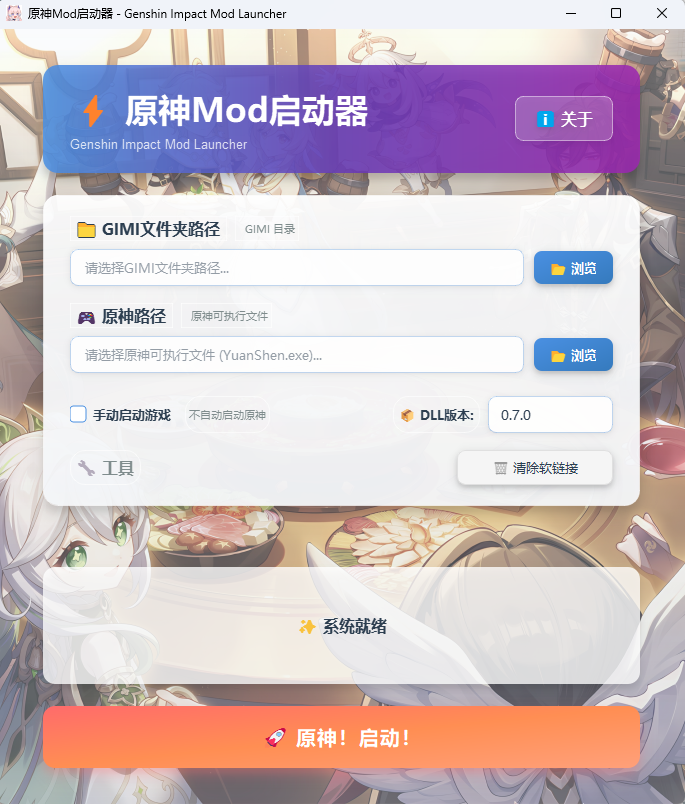
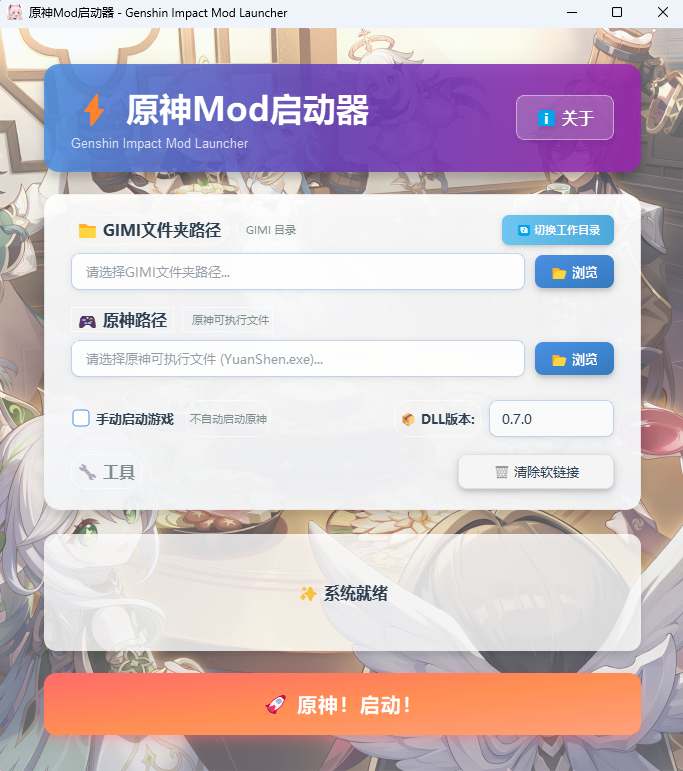
更新V1.5使用说明

diff --git a/README.md b/README.md
@@ -2,13 +2,13 @@
 
 ⚡ **Genshin Impact Mod Launcher** - 专为原神玩家设计的优雅Mod启动工具
 
-![Version](https://img.shields.io/badge/version-1.2.0-blue.svg)
+![Version](https://img.shields.io/badge/version-1.5.0-blue.svg)
 ![Platform](https://img.shields.io/badge/platform-Windows-lightgrey.svg)
 ![License](https://img.shields.io/badge/license-Proprietary-red.svg)
 
 ## ⚠ 重要说明
 
-**适用对象**：仅面向 XXMI 的 GIMI 加载器用户使用
+**适用对象**：支持 XXMI 的 GIMI 加载器和 3DMigoto 的 work 目录两种模式
 
 **兼容性提示**：本启动器目前仅在部分设备上可以有效规避游戏报错，尚未完全确定兼容性问题的根本原因。如果您的设备无法正常使用，请耐心等待后续版本更新。
 
@@ -30,39 +30,58 @@
 
 > ⚠ **重要**: 必须以管理员身份运行，否则无法创建软链接！
 
-## 📋 使用指南
+## ✨ 主要特性
+
+### � 双模式支持
+- **GIMI模式**：适用于 XXMI 的 GIMI 目录
+- **work模式**：适用于 3DMigoto 的 work 目录
+- 一键切换，配置互不干扰，自动保存
+
+## �📋 使用指南
 
 ### 首次使用
 
 1. **以管理员身份启动程序**
    - 右键点击程序图标 → 选择"以管理员身份运行"
 
-2. **配置 GIMI 文件夹路径**
-   - 点击"浏览"按钮选择你的 GIMI 文件夹
-   - 必须保证该文件夹包含以下文件夹或文件，且必须有效：
-     
-      文件夹：Core、Mods、ShaderCache、ShaderFixes
-     
-      文件：d3dcompiler_47.dll、d3dx_user.ini
+2. **选择工作模式**
+   - 程序默认为 **GIMI 模式**
+   - 如需使用 3DMigoto 模式，点击路径配置项右上方的 **🔄 切换工作目录**
+   - 工具提示：可在 XXMI 的 GIMI 目录和 3DMigoto 的 work 目录之间切换
 
-3. **配置原神游戏路径**
+3. **配置文件夹路径**
+
+   #### GIMI 模式配置
+   - 点击"浏览"按钮选择你的 GIMI 文件夹
+   - 必须包含以下内容：
+     - **必需文件夹**：Core、Mods、ShaderCache、ShaderFixes
+     - **可选文件**：d3dcompiler_47.dll、d3dx_user.ini
+
+   #### work 模式配置
+   - 点击"浏览"按钮选择你的 work 文件夹
+   - 必须包含以下内容：
+     - **必需文件夹**：Mods、ShaderCache、ShaderFixes
+     - **必需文件**：3DMigoto Loader.exe、d3dx.ini
+     - **可选文件**：d3dcompiler_46.dll、d3dx_user.ini
+
+4. **配置原神游戏路径**
    - 点击"浏览"按钮选择原神游戏的可执行文件
    - 如：`YuanShen.exe` 或 `GenshinImpact.exe`
 
-4. **选择 DLL 版本（可选）**
+5. **选择 DLL 版本（可选）**
    - 在"DLL版本"下拉框中选择文件版本
-   - 默认使用最新版本（0.7.0）
+   - 默认使用稳定版本（0.7.0）
    - **使用建议**：
-     - 一般情况下使用默认的最新版本即可
+     - 一般情况下使用默认的稳定版本即可
      - 当游戏出现"与服务器断开连接"错误时，可以尝试切换 DLL 版本
      - 优先选择较高的版本号
      - 低版本文件可能会导致 Mod 出现某些兼容性问题
 
-5. **选择启动模式（可选）**
+6. **选择启动模式（可选）**
    - 默认：自动启动所有工具和游戏
    - 勾选"手动启动游戏"：仅启动Mod加载工具，需手动启动游戏
 
-6. **启动程序**
+7. **启动程序**
    - 点击"🚀 原神！启动！"按钮
    - 程序将自动完成所有处理并启动
    - 启动成功后，程序将在 3 秒后自动退出
@@ -74,6 +93,12 @@
 2. 点击"🚀 原神！启动！"按钮
 3. 等待自动处理完成
 
+### 模式切换
+
+- 点击路径配置项右上方的 **🔄 切换工作目录** 即可在 GIMI 和 work 模式间切换
+- 两种模式的配置独立保存，切换后自动恢复之前的配置
+- 清除软链接功能会根据当前模式自动适配
+
 ## ⚠ 注意事项
 
 ### 重要提示
@@ -81,16 +106,22 @@
 1. **管理员权限**
    - 必须以管理员身份运行程序，否则无法创建软链接
 
-2. **路径配置**
-   - GIMI 文件夹必须包含必要的子文件夹（Core、Mods 等）
+2. **模式选择**
+   - **GIMI 模式**：用于 XXMI 的 GIMI 目录
+   - **work 模式**：用于 3DMigoto 的 work 目录
+   - 两种模式配置独立，互不影响
+
+3. **路径配置**
+   - **GIMI 模式必需**：Core、Mods、ShaderCache、ShaderFixes 文件夹
+   - **work 模式必需**：Mods、ShaderCache、ShaderFixes 文件夹，以及 3DMigoto Loader.exe、d3dx.ini 文件
    - 原神游戏路径必须指向正确的可执行文件
 
-3. **文件安全**
+4. **文件安全**
    - 程序会智能识别实际文件和软链接
-   - 仅删除软链接，不会删除实际文件
-   - 不要在运行时移动 GIMI 文件夹
+   - 仅删除软链接和复制的文件，不会删除实际文件
+   - 不要在运行时移动 GIMI 或 work 文件夹
 
-4. **自动退出**
+5. **自动退出**
    - 启动成功后程序将在 3 秒后自动退出
    - 无论是否点击确认按钮都会自动退出
 
@@ -99,8 +130,14 @@
 **Q: 启动时提示"需要管理员权限"？**  
 A: 右键点击程序，选择"以管理员身份运行"。
 
+**Q: 如何在 GIMI 和 work 模式之间切换？**  
+A: 点击路径配置项右上方的 🔄 切换工作目录按钮即可。两种模式的配置会自动保存，切换后会恢复之前的配置。
+
+**Q: work 模式下提示缺少文件？**  
+A: work 模式必须包含 3DMigoto Loader.exe 和 d3dx.ini 文件，请检查 work 文件夹是否完整。
+
 **Q: 软链接创建失败？**  
-A: 检查是否以管理员身份运行，以及 GIMI 路径是否正确。
+A: 检查是否以管理员身份运行，以及文件夹路径是否正确。
 
 **Q: 游戏启动失败？**  
 A: 检查原神游戏路径是否正确，确保指向可执行文件。
@@ -117,10 +154,13 @@ A: 启动成功后程序会在 3 秒后自动退出，这是正常设计。
 **Q: 配置丢失？**  
 A: 配置保存在 `config/config.ini`，确保该文件未被删除。
 
+**Q: 清除软链接后需要重新配置吗？**  
+A: 不需要，清除软链接只是删除链接文件，不会清除配置。下次启动时会自动重新创建软链接。
+
 ## 👨💻 项目信息
 
 - **项目名称**: GIML (Genshin Impact Mod Launcher)
-- **版本**: 1.2.0
+- **版本**: 1.5.0
 - **作者**: Aether
 - **许可证**: 专有软件许可证（Proprietary License）
 
@@ -146,4 +186,4 @@ A: 配置保存在 `config/config.ini`，确保该文件未被删除。
 
 **免责声明**: 本工具仅供学习和研究使用。使用Mod可能违反游戏服务条款，请自行承担风险。
 
-**最后更新**: 2025年10月15日
+**最后更新**: 2025年10月17日
